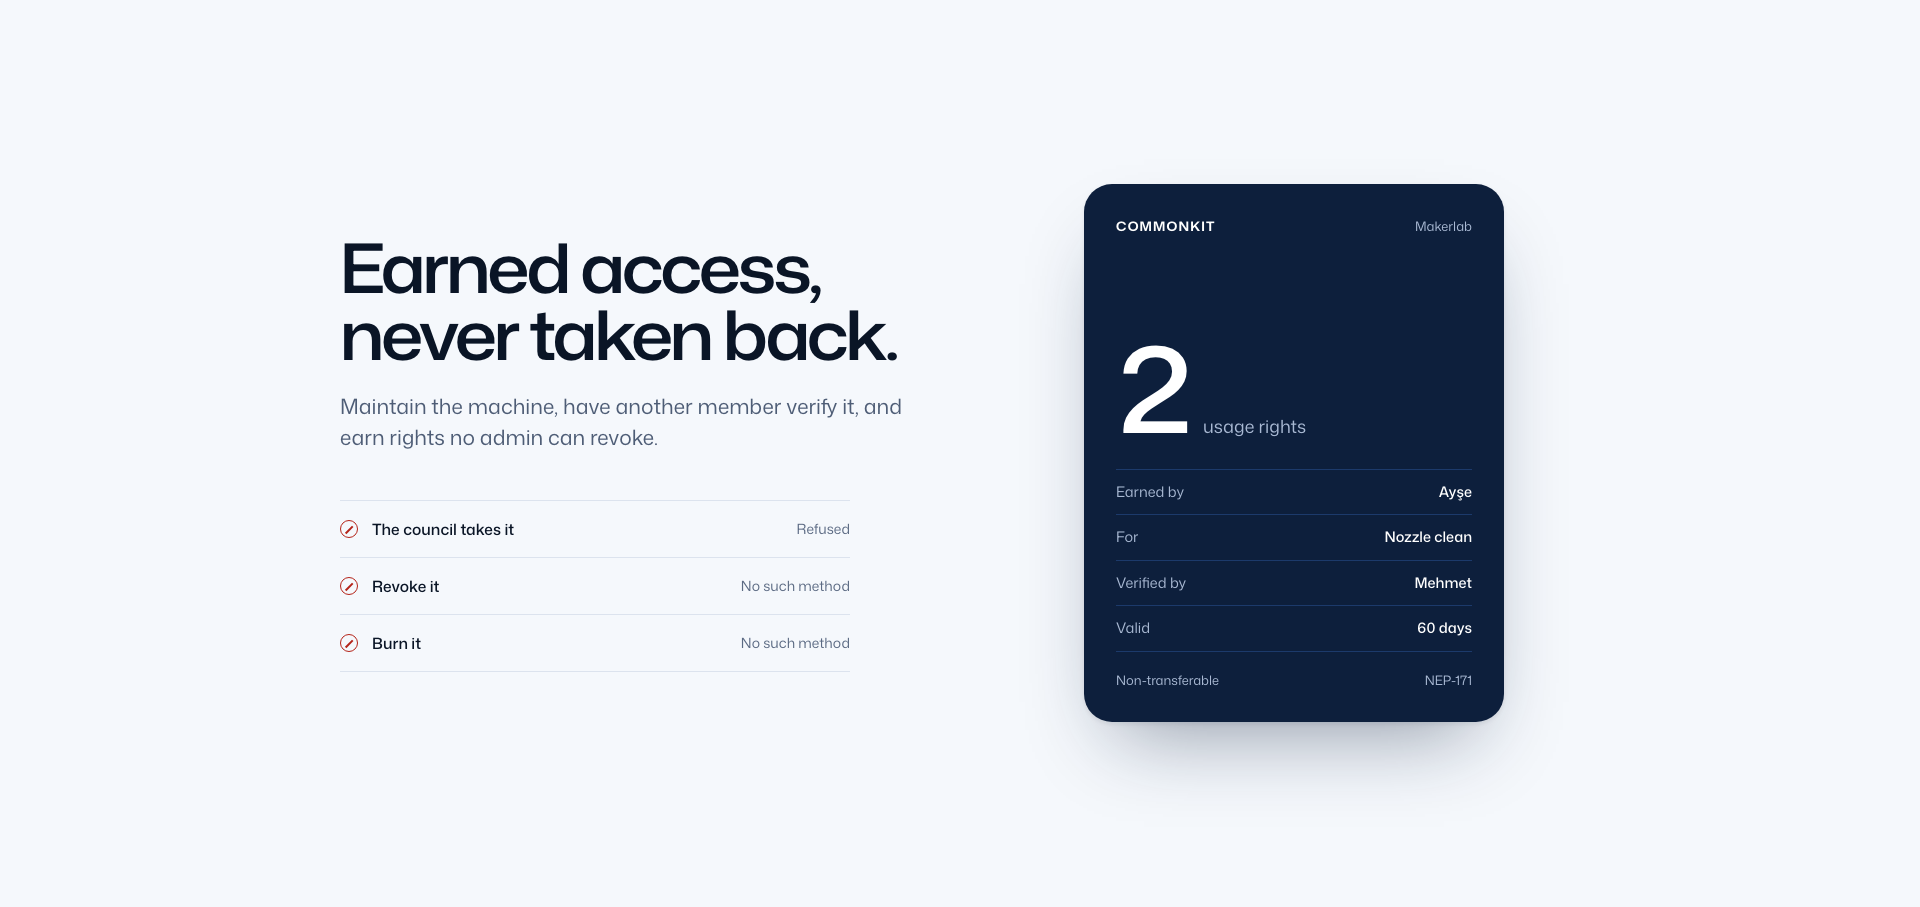
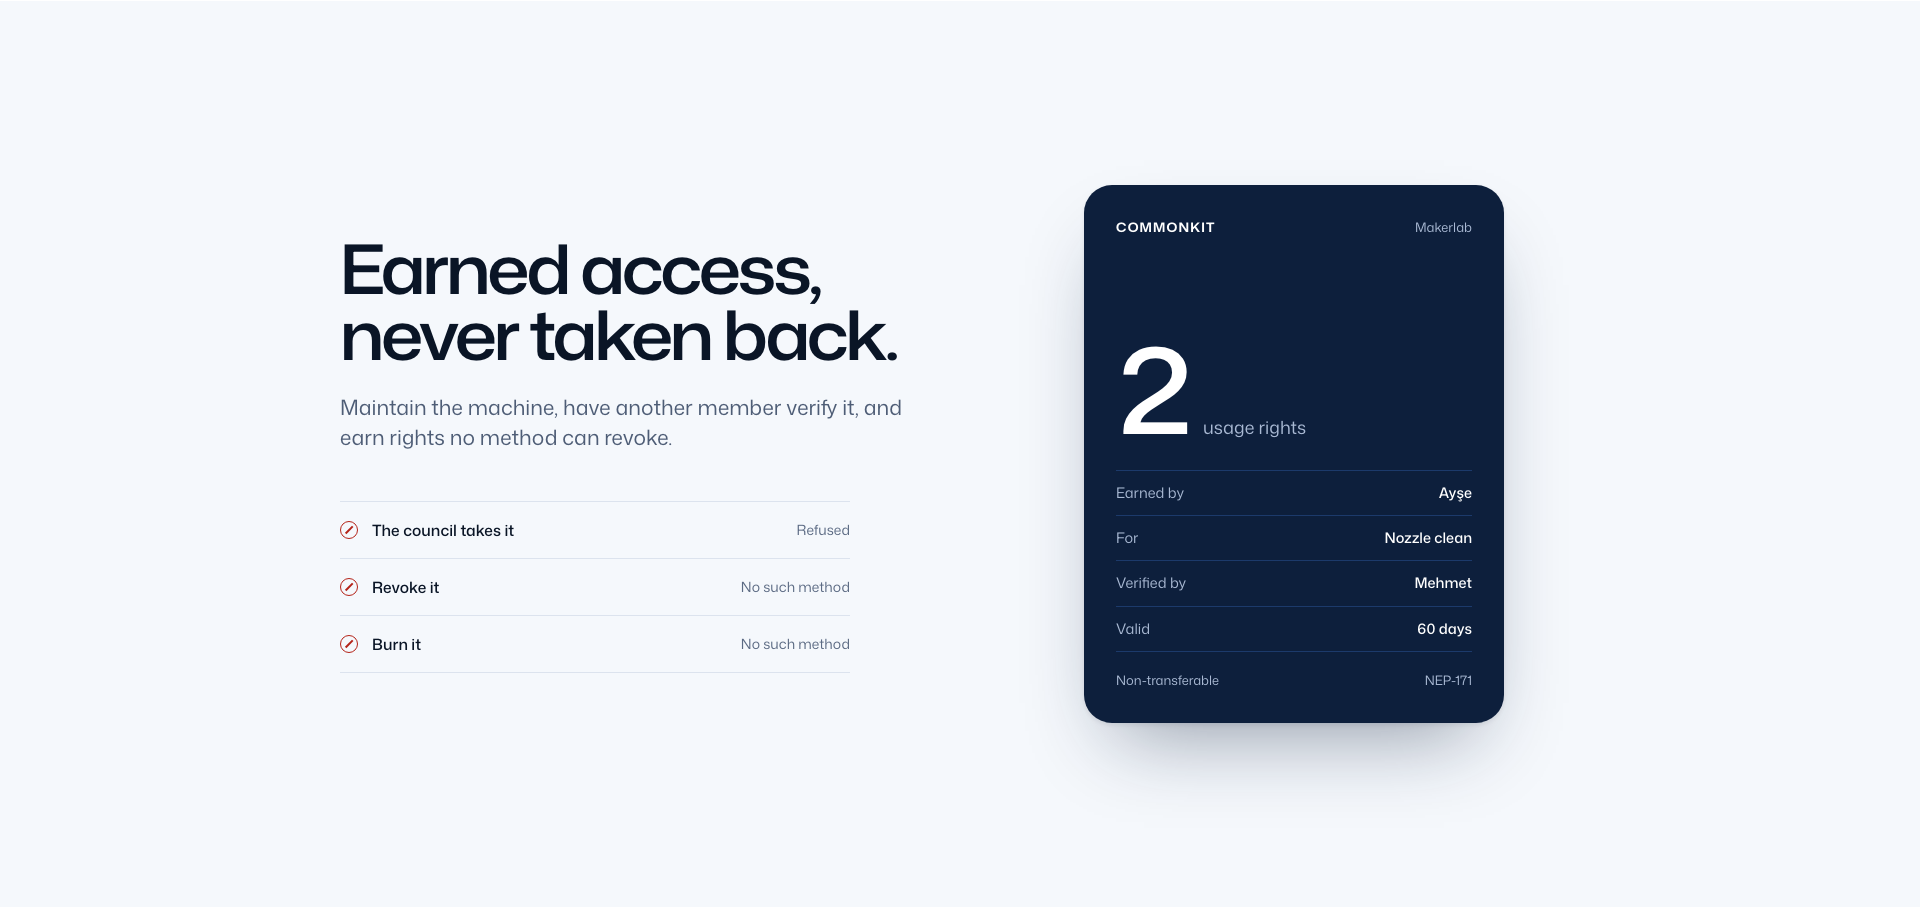
fix(landing): centred simulation note without README plumbing, revocation claim matches the README, number sources documented and tested

diff --git a/landing/render/render.ts b/landing/render/render.ts
@@ -154,6 +154,8 @@ export function money(d: LandingData): { lineup: string; stats: string } {
       <p class="tile-num"><b class="ck-num">${nearFixed(a.ledger.float_free)}</b> / ${nearFixed(a.ledger.float_cap)} NEAR</p>
     </li>`;
   }).join('');
+  // Sources: total_fees_in / total_swept from each asset's get_ledger view (testnet snapshot, refreshed with
+  // `pnpm --filter @commonkit/landing snapshot`); the refund amount is the printer profile deposit refunded in step 5.
   const sum = (k: 'total_fees_in' | 'total_swept') => assets.reduce((s, a) => s + BigInt(a.ledger[k]), 0n);
   const daos = new Set(assets.filter((a) => BigInt(a.ledger.total_swept) > 0n).map((a) => a.dao)).size;
   stepTx(d, 6, /books more/);
@@ -182,6 +184,7 @@ export function rights(d: LandingData): { refused: string; pass: string } {
     const why = t.error_code === 'PROTOCOL:MethodNotFound' ? 'No such method' : 'Refused';
     return `<li><span class="x" aria-hidden="true"></span><span class="what">${what}</span><a class="why" href="${tx(t.hash)}" rel="noopener">${esc(why)}</a></li>`;
   }).join('');
+  // Valid: right_validity_days from profiles/printer_3d.json (the profile set on testnet by DAO proposal).
   const pass = `<article class="pass" aria-label="Usage right card">
     <header class="pass-top"><span class="pass-brand">COMMONKIT</span><span>${esc(d.dep.communities[a.community]?.name ?? a.community)}</span></header>
     <p class="pass-count"><span class="n ck-num">${t0.reward_rights}</span><span class="u">usage rights</span></p>
@@ -215,6 +218,7 @@ export function proof(d: LandingData): string {
   const facts = [
     ['0', 'keys', `on the ${keyless} machine, community and DAO accounts. No one can sign for them.`],
     ['1', 'contract', `All ${d.snapshot.assets.length} machines run identical code, with the same code hash.`],
+    // evidence_txs: unique successful testnet tx hashes across evidence/*.json (data.ts readTicker).
     [String(d.evidence_txs), 'transactions', 'Every reservation, payment and upkeep in this demo is public on the explorer.'],
   ];
   return facts.map(([n, u, t]) => `<li><p class="fact-n"><b class="ck-num">${n}</b> ${u}</p><p>${esc(t!)}</p></li>`).join('');

diff --git a/landing/render/render.test.ts b/landing/render/render.test.ts
@@ -24,6 +24,14 @@ describe('landing render (honest and quiet)', () => {
   it('keeps judge plumbing off the landing: no step numbers, decision ids, evidence file names or raw hashes', () => {
     expect(all).not.toMatch(/\bstep \d|D-\d{3}|evidence\/|verify-step|\.json\b|E_[A-Z_]{4,}|[1-9A-HJ-NP-Za-km-z]{6}…/);
   });
+  it('derives the money, proof and right numbers from the snapshot, evidence and profile at build time', () => {
+    const fees = d.snapshot.assets.reduce((t, a) => t + BigInt(a.ledger.total_fees_in), 0n);
+    const fixed = (y: bigint) => { const r = (y + 5n * 10n ** 21n) / 10n ** 22n; return `${r / 100n}.${(r % 100n).toString().padStart(2, '0')}`; };
+    expect(s['money-stats']).toContain(`${fixed(fees)} NEAR`);
+    expect(s.proof).toContain(`<b class="ck-num">${d.evidence_txs}</b> transactions`);
+    const printer = d.profiles.find((p) => p.asset_type === 'printer_3d')!;
+    expect(s['rights-pass']).toContain(`${printer.right_validity_days} days`);
+  });
   it('links each refusal to its testnet transaction', () => {
     expect(s['rights-refused']!.match(/nearblocks\.io\/txns\//g)).toHaveLength(3);
   });

diff --git a/landing/index.html b/landing/index.html
@@ -85,7 +85,7 @@
         <p class="lede">The same contract runs every machine. Only the profile and the device adapter change.</p>
       </header>
       <ul class="care-grid"><!--ck:care--></ul>
-      <p class="ck-note center-note">Status as in the README scenario table. “simulation”: runs on testnet or in <span class="ck-mono">simulate.sh</span> with a simulated or emulated device.</p>
+      <p class="ck-note center-note">Simulation: simulated or emulated device on NEAR testnet.</p>
     </div>
   </section>
 
@@ -102,7 +102,7 @@
     <div class="wrap rights-grid">
       <div class="rights-copy">
         <h2 id="rights-title" class="ck-display h2">Earned access, never taken back.</h2>
-        <p class="lede">Maintain the machine, have another member verify it, and earn rights no admin can revoke.</p>
+        <p class="lede">Maintain the machine, have another member verify it, and earn rights no method can revoke.</p>
         <ul class="refused" aria-label="Attempts to take a right back, each refused on testnet"><!--ck:rights-refused--></ul>
       </div>
       <div class="pass-wrap"><!--ck:rights-pass--></div>

diff --git a/landing/src/live.ts b/landing/src/live.ts
@@ -1,6 +1,7 @@
 /** Live testnet read of printer-01 (lazy chunk): plain view calls through @commonkit/sdk NearRpc, no keys, no
  * wallet. Updates the hero callouts, the read time and the 3D state. Once on load, then at most once a minute
- * while the tab is visible, one request at a time, backing off on failure; the labelled snapshot stays otherwise. */
+ * while the tab is visible, one request at a time, backing off on failure; the labelled snapshot stays otherwise.
+ * Replaces the build-time snapshot values in the hero callouts ([data-live=float], [data-live=nozzle]) and the 3D state. */
 import { NearRpc } from '@commonkit/sdk';
 import { politeFetch, readLive, RPC_URLS } from './lib/chain.ts';
 import { int, near, utcStamp } from './lib/format.ts';

diff --git a/landing/src/styles/main.css b/landing/src/styles/main.css
@@ -89,6 +89,7 @@ section { scroll-margin-top: 24px; }
 .care-tile img { width: 100%; height: auto; aspect-ratio: 1; }
 .care-name { margin: 8px 0 0; font-weight: 600; }
 .care-kinds { margin: 2px 0 0; font-size: 14px; color: var(--ck-text-2); }
+.center-note { text-align: center; margin-top: 48px; }
 .care-status { margin: 6px 0 0; font-size: 13px; color: var(--ck-text-3); }
 
 /* Money */
